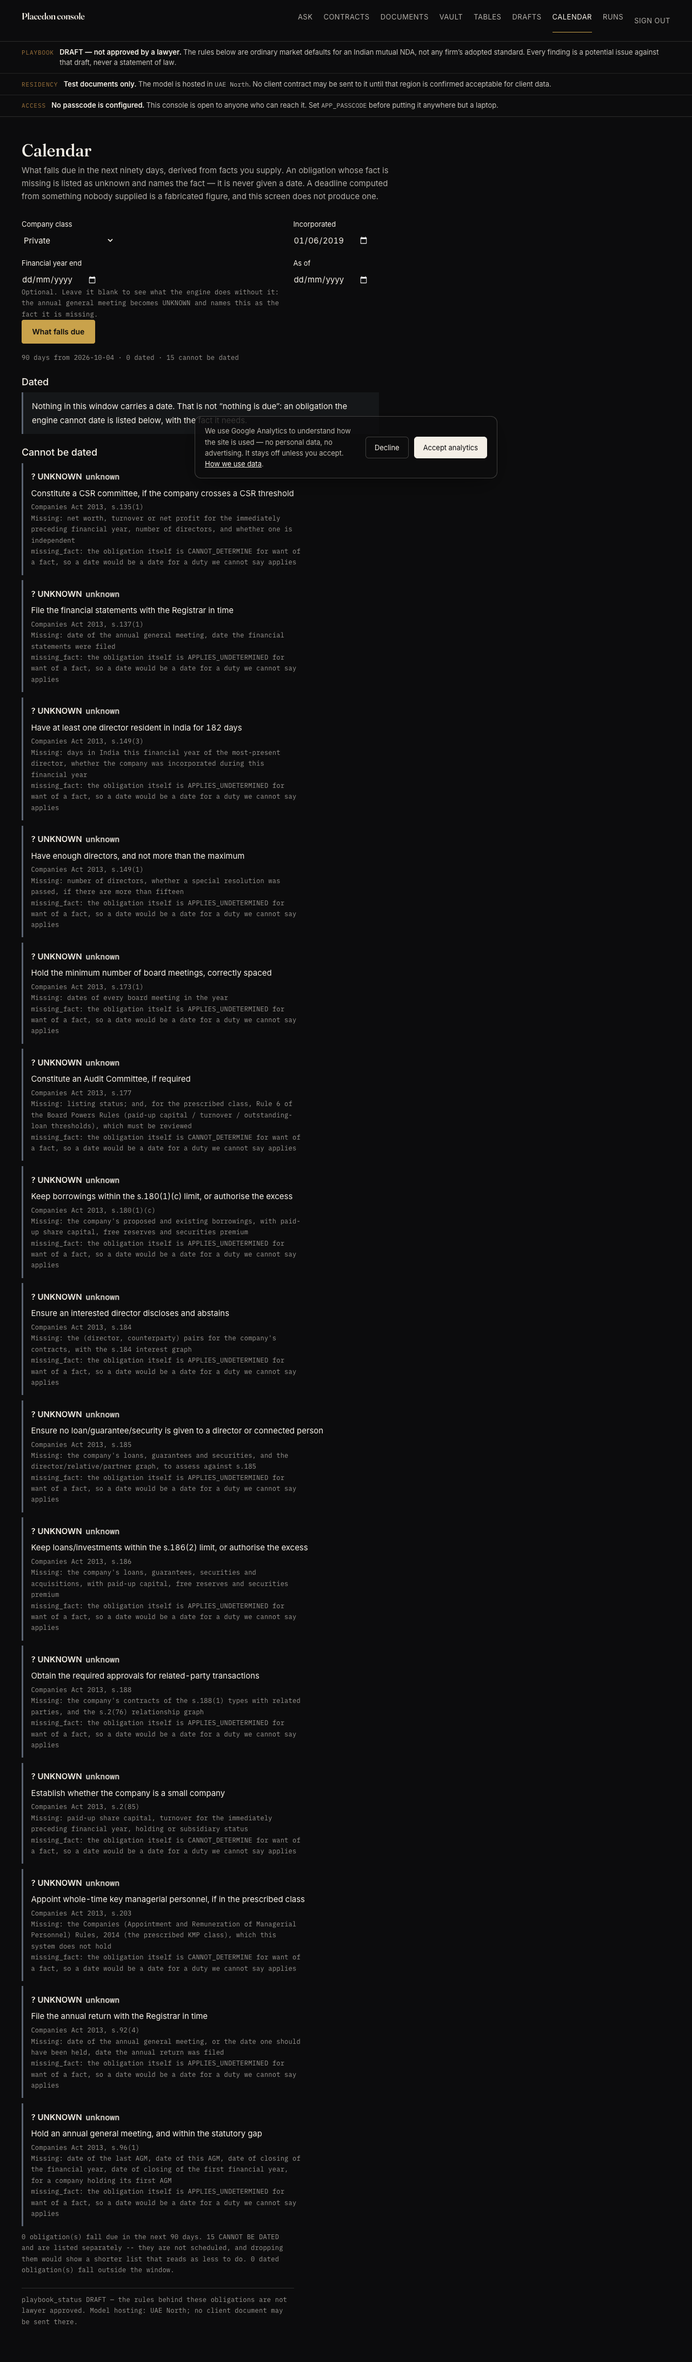
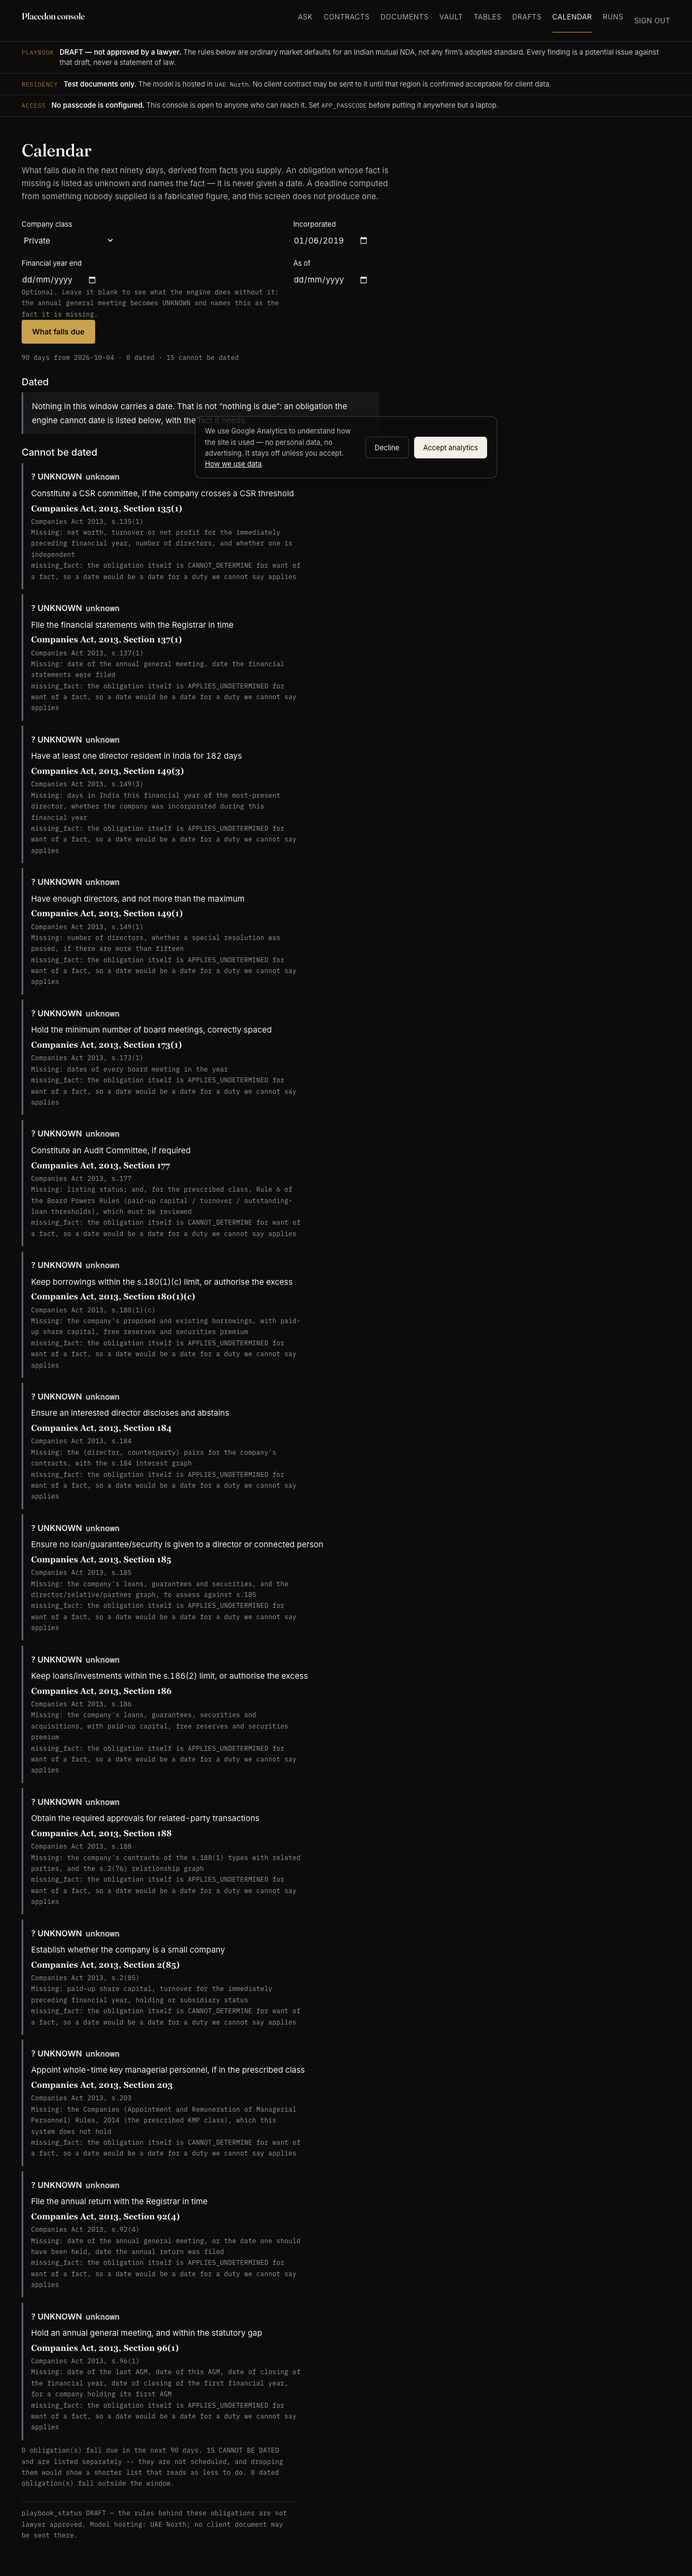
style(app): the reader-facing reference in bold serif, its engine form beneath it in mono
AGENTS.md changed on disk during this work: a reader-facing statutory reference normalises to
**Section 96(1)** in bold serif, and the evidence line beneath it stays mono. The calendar was
rendering only the engine's `s.135(1)`, in mono — correct as evidence, and missing the claim.

Both now, using `formatProvisionReference` from `src/lib/format.ts` rather than a second
normaliser: the branch added that helper for exactly this, and two implementations of "how a
section is displayed" would drift. Live:

    reader-facing   Companies Act, 2013, Section 135(1)     (bold serif — the claim)
    evidence line   Companies Act 2013, s.135(1)            (mono — the basis)

Neither is paraphrased. The normalisation is display-only and the engine's own string is shown
unchanged directly beneath it, so nothing is asserted that the engine did not say.

`calendar-unknown.png` re-captured against the live gateway after the change.

Changed region(s): [[0.0312, 0.0, 0.7812, 0.997], [0.5938, 0.1558, 0.7188, 0.2181], [0.8125, 0.0, 0.9375, 0.0312]]

diff --git a/src/app/app/calendar/calendar-console.tsx b/src/app/app/calendar/calendar-console.tsx
@@ -2,6 +2,7 @@
 
 import { useActionState } from "react";
 import { calendarAction, type CalendarState } from "./actions";
+import { formatProvisionReference } from "@/lib/format";
 import type { DueEntry, UnknownEntry } from "@/lib/gateway/types";
 
 const initial: CalendarState = { phase: "idle" };
@@ -16,12 +17,18 @@ const STATE = {
 } as const;
 
 function Provision({ entry }: { entry: DueEntry | UnknownEntry }) {
-  // Claim, then evidence: the duty reads as a sentence; the provision beneath it is the
-  // basis and stays mono. The reference is never paraphrased either way.
+  // Claim, then evidence, carried by the type. The duty and the reader-facing reference are
+  // the claim: `formatProvisionReference` normalises the engine's `s.96(1)` to the form used
+  // in Indian legal work, in bold serif. The engine's own string stays beneath it in mono —
+  // it is the basis, it is machine-exact, and mono is what says so. Neither is paraphrased:
+  // the normalisation is display-only and the raw value is shown unchanged.
   return (
     <>
       <p className="cal-duty">{entry.duty}</p>
-      <p className="meta cal-provision">{entry.provision}</p>
+      <p className="cal-reference section-reference">
+        {formatProvisionReference(entry.provision)}
+      </p>
+      <p className="meta cal-provision record-reference">{entry.provision}</p>
     </>
   );
 }

diff --git a/src/app/app/app.css b/src/app/app/app.css
@@ -550,3 +550,8 @@
   padding-top: 0.7rem;
   border-top: 1px solid color-mix(in srgb, var(--cream) 14%, transparent);
 }
+
+/* The reader-facing reference: bold serif, per AGENTS.md's claim/evidence split. The
+   engine's own `s.96(1)` sits beneath it in mono as the basis. */
+.cal-reference { margin: 0.15rem 0 0; font-size: 0.9375rem; }
+.cal-provision { margin-top: 0.1rem; }
